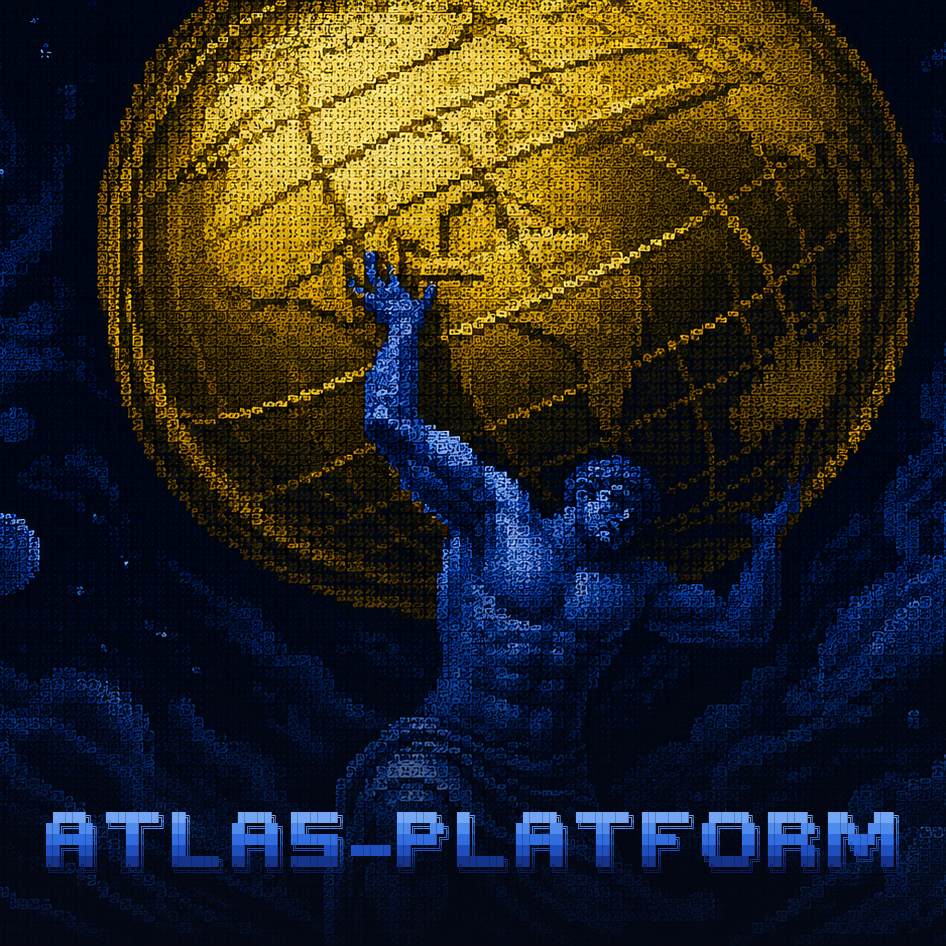
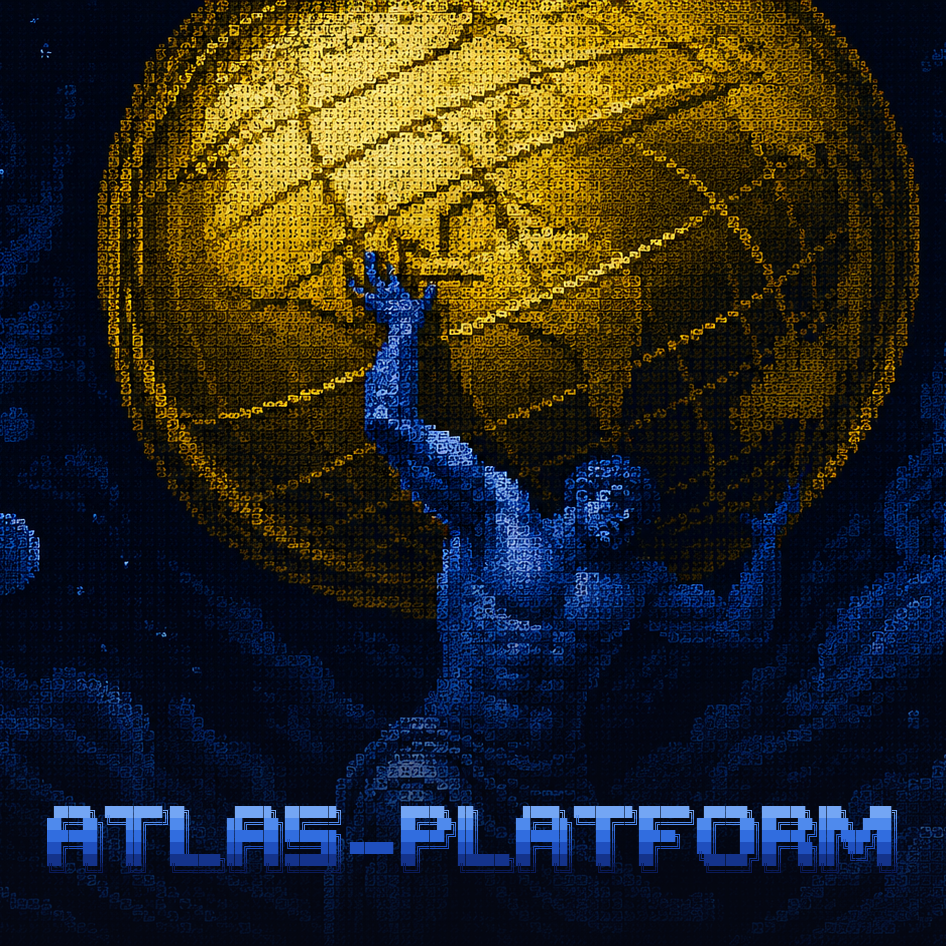
fix(branding): tighten ATLAS-PLATFORM lockup to the font's natural kerning (restore density/umph); regen poster

Changed region(s): [[0.0307, 0.8277, 0.9503, 0.9197]]

diff --git a/bootstrapper/ui/textual/widgets/block_logo.py b/bootstrapper/ui/textual/widgets/block_logo.py
@@ -8,7 +8,7 @@ same vertical bright→dark fade.
 
 Two lockup variants are defined; ``render()`` picks at runtime based on
 ``shutil.get_terminal_size()``:
-  * ``_LOGO_ROWS_FULL`` — "ATLAS-PLATFORM", 129 cells wide. Used when
+  * ``_LOGO_ROWS_FULL`` — "ATLAS-PLATFORM", 118 cells wide. Used when
     the terminal is wide enough.
   * ``_LOGO_ROWS_COMPACT`` — "ATLAS" only, 41 cells wide. Fallback for
     terminals narrower than ``_WIDTH_THRESHOLD`` columns so the
@@ -30,19 +30,19 @@ from textual.containers import Container
 from textual.widget import Widget
 
 
-# Full-width "ATLAS-PLATFORM" lockup (129 cells, 6 rows).
+# Full-width "ATLAS-PLATFORM" lockup (118 cells, 6 rows).
 # Letter widths A(8) T(9) L(8) A(8) S(8) hyphen(6) P(8) L(8) A(8) T(9)
 # F(8) O(9) R(8) M(11); 1-cell gap between every adjacent glyph. The
 # hyphen is a 6-cell horizontal block on a SINGLE row (row 3 only) so it
 # reads as one clean dash rather than a stacked "=" once a terminal adds
 # inter-line spacing.
 _LOGO_ROWS_FULL: list[str] = [
-    " █████╗  ████████╗ ██╗       █████╗  ███████╗        ██████╗  ██╗       █████╗  ████████╗ ███████╗  ██████╗  ██████╗  ███╗   ███╗",
-    "██╔══██╗ ╚══██╔══╝ ██║      ██╔══██╗ ██╔════╝        ██╔══██╗ ██║      ██╔══██╗ ╚══██╔══╝ ██╔════╝ ██╔═══██╗ ██╔══██╗ ████╗ ████║",
-    "███████║    ██║    ██║      ███████║ ███████╗        ██████╔╝ ██║      ███████║    ██║    █████╗   ██║   ██║ ██████╔╝ ██╔████╔██║",
-    "██╔══██║    ██║    ██║      ██╔══██║ ╚════██║ ██████ ██╔═══╝  ██║      ██╔══██║    ██║    ██╔══╝   ██║   ██║ ██╔══██╗ ██║╚██╔╝██║",
-    "██║  ██║    ██║    ███████╗ ██║  ██║ ███████║        ██║      ███████╗ ██║  ██║    ██║    ██║      ╚██████╔╝ ██║  ██║ ██║ ╚═╝ ██║",
-    "╚═╝  ╚═╝    ╚═╝    ╚══════╝ ╚═╝  ╚═╝ ╚══════╝        ╚═╝      ╚══════╝ ╚═╝  ╚═╝    ╚═╝    ╚═╝       ╚═════╝  ╚═╝  ╚═╝ ╚═╝     ╚═╝",
+    " █████╗ ████████╗██╗      █████╗ ███████╗        ██████╗ ██╗      █████╗ ████████╗███████╗ ██████╗ ██████╗ ███╗   ███╗",
+    "██╔══██╗╚══██╔══╝██║     ██╔══██╗██╔════╝        ██╔══██╗██║     ██╔══██╗╚══██╔══╝██╔════╝██╔═══██╗██╔══██╗████╗ ████║",
+    "███████║   ██║   ██║     ███████║███████╗        ██████╔╝██║     ███████║   ██║   █████╗  ██║   ██║██████╔╝██╔████╔██║",
+    "██╔══██║   ██║   ██║     ██╔══██║╚════██║ ██████ ██╔═══╝ ██║     ██╔══██║   ██║   ██╔══╝  ██║   ██║██╔══██╗██║╚██╔╝██║",
+    "██║  ██║   ██║   ███████╗██║  ██║███████║        ██║     ███████╗██║  ██║   ██║   ██║     ╚██████╔╝██║  ██║██║ ╚═╝ ██║",
+    "╚═╝  ╚═╝   ╚═╝   ╚══════╝╚═╝  ╚═╝╚══════╝        ╚═╝     ╚══════╝╚═╝  ╚═╝   ╚═╝   ╚═╝      ╚═════╝ ╚═╝  ╚═╝╚═╝     ╚═╝",
 ]
 
 
@@ -60,10 +60,10 @@ _LOGO_ROWS_COMPACT: list[str] = [
 
 # Terminal columns required to render _LOGO_ROWS_FULL without clipping
 # the right edge. Below this, render() falls back to _LOGO_ROWS_COMPACT.
-# The full lockup is 129 cells wide; the threshold is 130 so the wider
+# The full lockup is 118 cells wide; the threshold is 119 so the wider
 # lockup only renders when it fully fits with at least 1 column of
 # margin.
-_WIDTH_THRESHOLD = 130
+_WIDTH_THRESHOLD = 119
 
 
 # Width of one fully-rendered row of the full lockup. Used by tests
@@ -87,7 +87,7 @@ _GRADIENT = [
 class BlockLogo(Widget):
     """Single-line block-art lockup with vertical gradient, horizontally centered.
 
-    Renders ``_LOGO_ROWS_FULL`` (ATLAS-PLATFORM, 129 cells) when the
+    Renders ``_LOGO_ROWS_FULL`` (ATLAS-PLATFORM, 118 cells) when the
     terminal is at least ``_WIDTH_THRESHOLD`` columns wide; otherwise
     falls back to ``_LOGO_ROWS_COMPACT`` (ATLAS, 41 cells).
     """

diff --git a/bootstrapper/utils/banner.py b/bootstrapper/utils/banner.py
@@ -144,9 +144,9 @@ class BannerDisplay:
     # Terminal columns required to render the full "ATLAS-PLATFORM"
     # banner without clipping its right edge. Below this, get_ascii_
     # art_full() falls back to "ATLAS" only. The full banner is 129
-    # cells wide; the threshold is 130 so the wider lockup only
+    # cells wide; the threshold is 119 so the wider lockup only
     # renders when it fully fits with at least 1 column of margin.
-    _FULL_WIDTH_THRESHOLD = 130
+    _FULL_WIDTH_THRESHOLD = 119
 
     def get_ascii_art_full(self) -> List[str]:
         """
@@ -164,12 +164,12 @@ class BannerDisplay:
         """
         if self.get_terminal_width() >= self._FULL_WIDTH_THRESHOLD:
             return [
-                " █████╗  ████████╗ ██╗       █████╗  ███████╗        ██████╗  ██╗       █████╗  ████████╗ ███████╗  ██████╗  ██████╗  ███╗   ███╗",
-                "██╔══██╗ ╚══██╔══╝ ██║      ██╔══██╗ ██╔════╝        ██╔══██╗ ██║      ██╔══██╗ ╚══██╔══╝ ██╔════╝ ██╔═══██╗ ██╔══██╗ ████╗ ████║",
-                "███████║    ██║    ██║      ███████║ ███████╗        ██████╔╝ ██║      ███████║    ██║    █████╗   ██║   ██║ ██████╔╝ ██╔████╔██║",
-                "██╔══██║    ██║    ██║      ██╔══██║ ╚════██║ ██████ ██╔═══╝  ██║      ██╔══██║    ██║    ██╔══╝   ██║   ██║ ██╔══██╗ ██║╚██╔╝██║",
-                "██║  ██║    ██║    ███████╗ ██║  ██║ ███████║        ██║      ███████╗ ██║  ██║    ██║    ██║      ╚██████╔╝ ██║  ██║ ██║ ╚═╝ ██║",
-                "╚═╝  ╚═╝    ╚═╝    ╚══════╝ ╚═╝  ╚═╝ ╚══════╝        ╚═╝      ╚══════╝ ╚═╝  ╚═╝    ╚═╝    ╚═╝       ╚═════╝  ╚═╝  ╚═╝ ╚═╝     ╚═╝",
+                " █████╗ ████████╗██╗      █████╗ ███████╗        ██████╗ ██╗      █████╗ ████████╗███████╗ ██████╗ ██████╗ ███╗   ███╗",
+                "██╔══██╗╚══██╔══╝██║     ██╔══██╗██╔════╝        ██╔══██╗██║     ██╔══██╗╚══██╔══╝██╔════╝██╔═══██╗██╔══██╗████╗ ████║",
+                "███████║   ██║   ██║     ███████║███████╗        ██████╔╝██║     ███████║   ██║   █████╗  ██║   ██║██████╔╝██╔████╔██║",
+                "██╔══██║   ██║   ██║     ██╔══██║╚════██║ ██████ ██╔═══╝ ██║     ██╔══██║   ██║   ██╔══╝  ██║   ██║██╔══██╗██║╚██╔╝██║",
+                "██║  ██║   ██║   ███████╗██║  ██║███████║        ██║     ███████╗██║  ██║   ██║   ██║     ╚██████╔╝██║  ██║██║ ╚═╝ ██║",
+                "╚═╝  ╚═╝   ╚═╝   ╚══════╝╚═╝  ╚═╝╚══════╝        ╚═╝     ╚══════╝╚═╝  ╚═╝   ╚═╝   ╚═╝      ╚═════╝ ╚═╝  ╚═╝╚═╝     ╚═╝",
             ]
         # Fallback: just "ATLAS", 41 cells wide.
         return [

diff --git a/bootstrapper/tests/test_banner_block_logo_parity.py b/bootstrapper/tests/test_banner_block_logo_parity.py
@@ -1,6 +1,6 @@
 """Parity + boundary guard for the ATLAS-PLATFORM block-art lockup.
 
-The 6-row FULL lockup, the ATLAS COMPACT fallback, and the 130-column
+The 6-row FULL lockup, the ATLAS COMPACT fallback, and the 119-column
 width threshold are duplicated across two render surfaces:
 
   * ``ui/textual/widgets/block_logo`` — the Textual TUI brand panel.
@@ -50,7 +50,7 @@ def test_width_threshold_matches_across_surfaces():
     assert bl._WIDTH_THRESHOLD == BannerDisplay._FULL_WIDTH_THRESHOLD
 
 
[email redacted]("cols,variant", [(129, "compact"), (130, "full")])
[email redacted]("cols,variant", [(118, "compact"), (119, "full")])
 def test_threshold_boundary_picks_the_right_lockup(monkeypatch, cols, variant):
     import ui.textual.widgets.block_logo as bl
     from utils.banner import BannerDisplay